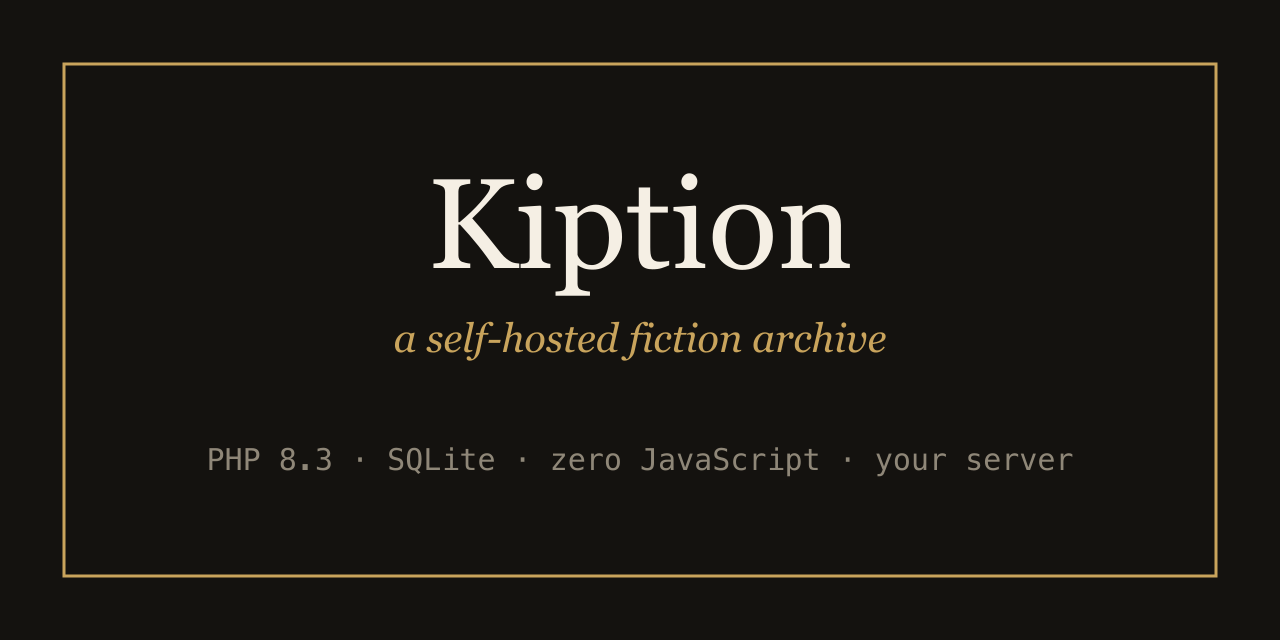
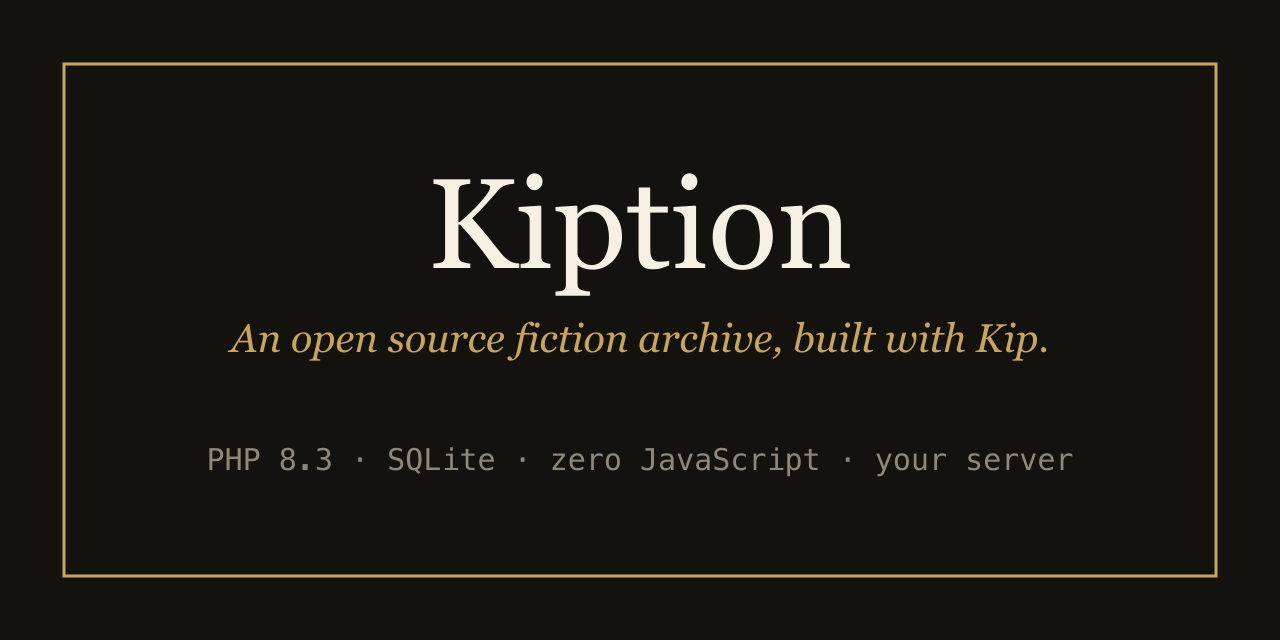
Call Kiption an open source fiction archive, built with Kip

Changed region(s): [[0.1875, 0.5, 0.8125, 0.5625]]

diff --git a/tests/PublishAuditTest.php b/tests/PublishAuditTest.php
@@ -42,7 +42,7 @@ final class PublishAuditTest extends TestCase
         $dir = sys_get_temp_dir() . '/kiption-pubaudit-' . uniqid();
         $this->dirs[] = $dir;
         mkdir($dir . '/src', 0777, true);
-        file_put_contents($dir . '/README.md', "# Fixture archive\n\nSelf-hosted fiction archive. See INSTALL.md.\n");
+        file_put_contents($dir . '/README.md', "# Fixture archive\n\nAn open source fiction archive, built with Kip. See INSTALL.md.\n");
         file_put_contents($dir . '/LICENSE', "MIT License. Copyright (c) fixture.\n");
         file_put_contents($dir . '/CHANGELOG.md', "# Changelog\n\n## [Unreleased]\n");
         file_put_contents($dir . '/INSTALL.md', "# Install\n\n    composer install\n    php bin/kip migrate\n");

diff --git a/app/lang/en.php b/app/lang/en.php
@@ -82,7 +82,7 @@ return [
     'theme.auto' => 'Auto',
 
     // The default meta description (Head's fallback) and the home page.
-    'site.meta_description' => 'A self-hosted fiction archive.',
+    'site.meta_description' => 'An open source fiction archive, built with Kip.',
     'home.intro' => 'Original stories and fan fiction, read a chapter at a time or all at once.',
     // Long messages the owner writes in Markdown (Site text, group "msg"). Empty means not shown.
     'msg.welcome' => '',

diff --git a/README.md b/README.md
@@ -4,7 +4,7 @@
 [![PHP 8.3+](https://img.shields.io/badge/PHP-8.3%2B-777bb4.svg)](README.md#requirements)
 ![SQLite with WAL](https://img.shields.io/badge/storage-SQLite%20WAL-003b57.svg)
 
-A self-hosted fiction archive for original fiction and fanfiction.
+An open source fiction archive, built with Kip, for original fiction and fanfiction.
 PHP 8.3 and SQLite. No JavaScript frameworks, no runtime dependencies
 beyond the [Kip](https://github.com/Hyperion360/kip) framework, no build
 step. Runs on shared hosting.

diff --git a/docs/guides/SWITCHING.md b/docs/guides/SWITCHING.md
@@ -69,7 +69,7 @@ then choose inbox, immediate email, or digest themselves.
 
 ## How Kiption compares to eFiction
 
-eFiction is the grandparent of self-hosted fiction archives; it has run
+eFiction is the grandparent of open source fiction archives; it has run
 fandom sites since 2003, and Kiption's author was on its original 2005
 development team. The comparison is not a rivalry. If your eFiction
 archive is healthy and you enjoy running PHP software, the maintained
